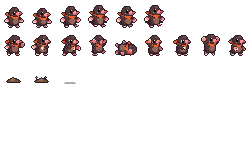
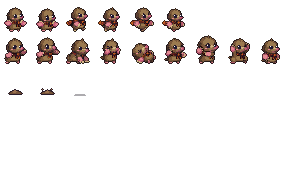
Naïl v5를 개발판에: 초상화 얼굴에서 다시 받은 시트·걷기 영상 네 칸, 칸 32(0308)
- nail_ai.build = v5(머리 0.85배 — 포포와 나란히, 걷기는 영상에서 뽑은 네 칸). 옛 시트는 build_v4
- 칸 28 → 32(art::NAIL_CELL·NAIL_FOOT): 치기 칸의 발톱·날리는 목도리가 가장자리에 닿았다
- 땅 단면 그림(dig.png 줄 0)의 털색을 v5 색표로
- 도구의 칸 크기(check_rebuild·make_images·achievement_icons·hub_ref), 상점 그림 도구는 띠 높이에서 칸을 읽는다
- 다른 캐릭터에 같은 기법을 입혀 본 결과와 남은 것은 docs/decisions/0308

Changed region(s): [[0.0, 0.0298, 0.9722, 0.3571], [0.1389, 0.4464, 0.1944, 0.506], [0.0278, 0.4464, 0.0833, 0.506]]

diff --git a/tools/art/nail_ai.py b/tools/art/nail_ai.py
@@ -1,4 +1,4 @@
-"""Naïl 스프라이트 시트(28×28 칸): 나노바나나 원본(tools/art/sources/ai/sprites/)을 게임 도트로 옮긴다(0206 → 0238).
+"""Naïl 스프라이트 시트(32×32 칸): 나노바나나 원본(tools/art/sources/ai/sprites/)을 게임 도트로 옮긴다(0206 → 0238 → 0308).
 
 실행: python3 tools/art/nail_ai.py [출력 경로]   (기본 assets/art/nail.png. 털빛 시트 nail_fur*.png는 0272에서 뺐다)
 
@@ -6,7 +6,9 @@
 설정(`SPEC`)과 시트 배치뿐이다. 왜 이 길인가(0203 → 0206 → 0238): 16칸 손 그림은 "두더지 같지 않다"(사장) → 실루엣 시안 1
 (`nail_s1_v2`, 몸 16px) → 사장 "처음부터 다시"(0238): 큰 그림 다섯 안에서 고른 1번(서서 삽 손을 벌린 몸 + 주황 목도리)을
 시트 둘(`nail_v3_a`·`nail_v3_b`)로 받아 키 약 22px로(모모 23·도토 25와 나란히). 0242: 머리를 키운 시험(`chibi`, 사장 "좋은데?") →
-그 비율로 처음부터 그린 v4 시트 둘(`nail_v4_a`·`nail_v4_b`, 2.5등신·큰 눈)을 받아 지금 쓴다(`SPEC`, 외곽선까지 키 약 21px — 아기라 이웃보다 작게). 원본 손발이 이미 분홍·크림이라 `Limbs`·`swing`은 없다.
+그 비율로 처음부터 그린 v4 시트 둘(`nail_v4_a`·`nail_v4_b`, 2.5등신·큰 눈, `SPEC` — 지금은 `build_v4`로만). 원본 손발이 이미 분홍·크림이라 `Limbs`·`swing`은 없다.
+0308: 초상화 얼굴에서 다시 그린 v5(`nail_v5_a`·`_b` + 걷기 영상 띠 `nail_v5_walk`)를 지금 쓴다(`build` = `build_v5`): 키 24px, 눈은 원본의
+반짝 자리를 재서 같은 도장으로, 외곽선은 곁의 털색으로 물들이고 안쪽 선을 원본에서 옮긴다. 머리는 `HEAD_V5`배(이웃과 나란히 보아 고른 값).
 
 칸 배치(게임 코드는 칸 크기 `art::NAIL_CELL`만 안다):
   줄 0: 서기 2, 걷기 4 / 줄 1: 치기 3, 맞음, 쓰러짐, 들기 3, 거두기 / 줄 2: 흙더미 2, 그림자(16칸 그림을 칸 아래 가운데에)
@@ -24,8 +26,8 @@ import nail as legacy  # noqa: E402  흙더미·그림자 16칸 그림을 같이
 from sprite_ai import Source, Spec, convert, magenta, seat, seat_on_fur, step_cycle  # noqa: E402
 
 SPRITES = HERE / "sources" / "ai" / "sprites"
-CELL = 28          # 키 약 24px(머리 키운 뒤, 0242) + 뻗은 발톱(0238: 18px는 모모 23·도토 25보다 작아 주인공이 가장 작았다)
-FOOT = 26          # 발바닥 줄(칸 위에서). 게임은 발을 몸 자리 + 6에 둔다(`art::nail_origin`).
+CELL = 32          # 키 24px + 뻗은 발톱·날리는 목도리(0308: v5의 치기 칸이 28칸 가장자리에 닿았다. 0238의 28칸은 v4까지)
+FOOT = 30          # 발바닥 줄(칸 위에서). 게임은 발을 몸 자리 + 6에 둔다(`art::nail_origin`).
 
 # 원본(0238, 사장 고름 1단계 1번 → 2단계 시트 둘, ✦ 지움). 칸 상자는 redo_concepts.components로 찾은 값.
 # 시트 A(3줄 × 4): 줄 1 서기·서기(숨)·맞음·쓰러짐, 줄 2·3 걷기(줄 2 첫 칸만 쓴다 — 네 칸이 거의 같고 앞발만 튀어서, 0241). 서기 두 칸은 벌린 발톱끼리 붙어 있어
@@ -551,7 +553,10 @@ def spec_v5(head=1.0):
         palette_ref=SPEC_V5.palette_ref, body_h=SPEC_V5.body_h, breathe=SPEC_V5.breathe)
 
 
-def build_v5(walk="step", lines=True, head=1.0):
+HEAD_V5 = 0.85      # 머리 배율(사장 2026-11-27 "너무 이등신 느낌 … 포포 정도면") — 머리 너비가 포포(15px)에 가깝다(받은 그대로 19 → 16px)
+
+
+def build_v5(walk="gif", lines=True, head=HEAD_V5):
     """v5 시트. `walk`: "step" = 걷기 첫 칸에서 발만 딛는 네 칸(0241, 지금까지의 방식), "sheet" = 받은 걷기 네 칸 그대로,
     "gif" = 걷기 영상에서 뽑은 네 칸. `head` = 머리 배율(`shrink_head`)."""
     spr = convert(spec_v5(head))
@@ -583,18 +588,8 @@ def build_v5(walk="step", lines=True, head=1.0):
     return rows
 
 
-def build():
-    spr = convert(SPEC)
-    sat = lambda k: touch(seat_on_fur(spr[k], spr["idle_a"], CELL, FOOT), k)
-    idle = touch(seat(spr["idle_a"], CELL, FOOT), "idle_a")
-    rows = [
-        [idle, touch(seat(spr["idle_b"], CELL, FOOT), "idle_b")]
-        # v4도 걷기 넷을 그려 왔지만 넷째 칸만 몸이 좁고 키가 커 걸음마다 튀었다 → 첫 칸에서 발만 딛게(0241, 다른 캐릭터와 같이).
-        + step_cycle(sat("walk_1"), FOOT - 1),
-        # 동작 칸은 몸통 털의 가운데를 서기 칸에 맞춘다(발톱을 뻗어도 몸이 옆으로 뛰지 않게).
-        [sat(k) for k in ("attack0", "attack1", "attack2", "hurt", "dead", "windup0", "windup1", "windup2", "settle")],
-        [small(legacy.MOUND_A), small(legacy.MOUND_B), small(legacy.SHADOW)],
-    ]
+def sheet_of(rows):
+    """줄 0~2(그림)와 줄 3~5(흰 실루엣)를 한 장으로."""
     sheet = np.zeros((CELL * 6, CELL * 9, 4), np.uint8)
     for r, row in enumerate(rows):
         for c, cell in enumerate(row):
@@ -607,6 +602,27 @@ def build():
             sil[~on] = 0
             sheet[(r + 3) * CELL:(r + 4) * CELL, c * CELL:(c + 1) * CELL] = sil
     return sheet
+
+
+def build():
+    """지금 게임 시트: v5(걷기는 영상 네 칸, 머리 `HEAD_V5`)."""
+    return sheet_of(build_v5())
+
+
+def build_v4():
+    """옛 v4 시트(견줄 때만)."""
+    spr = convert(SPEC)
+    sat = lambda k: touch(seat_on_fur(spr[k], spr["idle_a"], CELL, FOOT), k)
+    idle = touch(seat(spr["idle_a"], CELL, FOOT), "idle_a")
+    rows = [
+        [idle, touch(seat(spr["idle_b"], CELL, FOOT), "idle_b")]
+        # v4도 걷기 넷을 그려 왔지만 넷째 칸만 몸이 좁고 키가 커 걸음마다 튀었다 → 첫 칸에서 발만 딛게(0241, 다른 캐릭터와 같이).
+        + step_cycle(sat("walk_1"), FOOT - 1),
+        # 동작 칸은 몸통 털의 가운데를 서기 칸에 맞춘다(발톱을 뻗어도 몸이 옆으로 뛰지 않게).
+        [sat(k) for k in ("attack0", "attack1", "attack2", "hurt", "dead", "windup0", "windup1", "windup2", "settle")],
+        [small(legacy.MOUND_A), small(legacy.MOUND_B), small(legacy.SHADOW)],
+    ]
+    return sheet_of(rows)
 
 
 if __name__ == "__main__":

diff --git a/tools/art/hub_ref.py b/tools/art/hub_ref.py
@@ -215,7 +215,7 @@ def board(items):
     w = 4 + 24 + 8 + len(items) * (CELL + 6) + 4
     out = Image.new("RGBA", (w * Z, (CELL + 8) * Z), (255, 0, 255, 255))
     # Naïl은 그림이 있는 자리만 잘라 발을 물건의 발 줄에 맞춘다(칸 크기가 바뀌어도 어긋나지 않게 — 지금 28칸).
-    nail = Image.open(HERE.parents[1] / "assets" / "art" / "nail.png").convert("RGBA").crop((0, 0, 28, 28))
+    nail = Image.open(HERE.parents[1] / "assets" / "art" / "nail.png").convert("RGBA").crop((0, 0, 32, 32))
     nail = nail.crop(nail.getbbox())
     out.alpha_composite(
         nail.resize((nail.width * Z, nail.height * Z), Image.NEAREST),
@@ -241,7 +241,7 @@ def style_board():
         im = Image.open(art / name).convert("RGBA").crop((col * size, 0, (col + 1) * size, size))
         return im.crop(im.getbbox())
 
-    cells = [cell("nail.png", 28, 0), cell("popo.png", 32, 0), cell("susu.png", 32, 0)]
+    cells = [cell("nail.png", 32, 0), cell("popo.png", 32, 0), cell("susu.png", 32, 0)]
     cells += [cell("props.png", 24, c) for c in (0, 1, 2, 4)]
     # 화덕 돌 고리(칸 1)는 바닥에 누운 것의 각도 기준: 물웅덩이·샘을 받을 때 "이 고리와 같은 각도로"라고 쓴다(2026-11-27 —
     # 각도 기준 없이 받은 샘은 돌 테두리 옆면이 보여 우물처럼 서 있었다).

diff --git a/tools/store/msstore_media.py b/tools/store/msstore_media.py
@@ -37,7 +37,8 @@ def main() -> None:
     wm = wordmark()
     title = Image.open(ILL / "title.png").convert("RGBA")  # 640×360
     tree = Image.open(ILL / "great_tree.png").convert("RGBA")
-    nail = Image.open(SHOTS / "sp_nail.png").convert("RGBA").crop((0, 0, 28, 28))
+    nail = Image.open(SHOTS / "sp_nail.png").convert("RGBA")
+    nail = nail.crop((0, 0, nail.height, nail.height))   # 걷는 띠의 첫 칸(칸 = 띠 높이)
 
     # 상자 1:1: 타이틀 왼쪽 360×360(굴 속에 잠든 나일) ×6, 제목은 위 2/3 안(가운데 위).
     box = up(title.crop((0, 0, 360, 360)), 6)
@@ -49,7 +50,7 @@ def main() -> None:
     for (w, h, k) in [(240, 360, 6), (288, 512, 5)]:
         x0 = (tree.width - w) // 2
         post = up(tree.crop((x0, 0, x0 + w, h)), k)
-        post.alpha_composite(up(nail, 9), (200, post.height - 300 - 28 * 9))
+        post.alpha_composite(up(nail, 9), (200, post.height - 300 - nail.height * 9))
         place(post, fit(wm, 1300, 420), 720, 360)
         post.convert("RGB").save(OUT / f"poster-{w * k}x{h * k}.png", optimize=True)
 

diff --git a/tools/store/epic_media.py b/tools/store/epic_media.py
@@ -97,8 +97,9 @@ def main() -> None:
     x0 = (tree.width - 300) // 2
     port = up(tree.crop((x0, 0, x0 + 300, 400)), 4)
     # 주인공: 걷는 띠의 첫 칸(28칸) ×8을 뿌리 앞에
-    nail = Image.open(SHOTS / "sp_nail.png").convert("RGBA").crop((0, 0, 28, 28))
-    port.alpha_composite(up(nail, 8), (330 - 112, 1180 - 28 * 8))  # 왼쪽 풀밭 위(뿌리 위는 어두워 묻힌다)
+    nail = Image.open(SHOTS / "sp_nail.png").convert("RGBA")
+    nail = nail.crop((0, 0, nail.height, nail.height))   # 걷는 띠의 첫 칸(칸 = 띠 높이)
+    port.alpha_composite(up(nail, 8), (330 - nail.height * 4, 1180 - nail.height * 8))  # 왼쪽 풀밭 위(뿌리 위는 어두워 묻힌다)
     place(port, up(wm, 7), 600, 300)
     port.convert("RGB").save(OUT / "offer-portrait-1200x1600.png", optimize=True)
 

diff --git a/src/art.rs b/src/art.rs
@@ -262,10 +262,10 @@ pub const PORTRAIT: f32 = 88.0;
 pub const PORTRAIT_COLS: u32 = 12;
 
 pub const CELL: f32 = 16.0;
-/// Naïl 시트(nail.png)의 칸: 28×28(몸 키 약 22px + 벌린 발톱, 0238 — 0206의 24칸·몸 16은 모모·도토보다 작았다),
+/// Naïl 시트(nail.png)의 칸: 32×32(몸 키 24px + 뻗은 발톱·날리는 목도리, 0308 — 0238의 28칸은 v5의 치기 칸이 가장자리에 닿았다),
 /// 발바닥 줄 `NAIL_FOOT`(칸 위에서). 다른 시트는 `CELL`.
-pub const NAIL_CELL: f32 = 28.0;
-pub const NAIL_FOOT: f32 = 26.0;
+pub const NAIL_CELL: f32 = 32.0;
+pub const NAIL_FOOT: f32 = 30.0;
 
 /// critters.png에서 실루엣 줄까지의 거리(그림 줄 수).
 pub const CRITTER_ROWS: u32 = 22;

diff --git a/tools/steam/achievement_icons.py b/tools/steam/achievement_icons.py
@@ -51,8 +51,8 @@ ICONS = [
     ('ACH_DOTO_DEEPEST', 'story', ('portrait', 32, 12, 12)),
     ('ACH_KILLS', 'fight', ('portrait', 3, 12, 12)),
     ('ACH_BURST_KILLS', 'fight', ('sprite', 'dig.png', 32, 6, 0, 2)),
-    ('ACH_PARRIES', 'fight', ('sprite', 'nail.png', 28, 2, 0, 2)),
-    ('ACH_HEAVY_HITS', 'fight', ('sprite', 'nail.png', 28, 7, 1, 2)),
+    ('ACH_PARRIES', 'fight', ('sprite', 'nail.png', 32, 2, 0, 2)),
+    ('ACH_HEAVY_HITS', 'fight', ('sprite', 'nail.png', 32, 7, 1, 2)),
     ('ACH_FINISHERS', 'fight', ('portrait', 9, 12, 12)),
     ('ACH_MOMO_BOWLING', 'fight', ('sprite', 'momo.png', 32, 5, 0, 2)),
     ('ACH_CHESTS', 'explore', ('sprite', 'props.png', 24, 5, 0, 2)),

diff --git a/tools/art/dig.py b/tools/art/dig.py
@@ -22,7 +22,8 @@ from PIL import Image
 
 S = 32
 NAIL = {
-    'o': (43, 29, 42), 'd': (92, 62, 52), 'b': (128, 92, 74), 'h': (166, 128, 102), 'l': (206, 172, 142),
+    # 털 넷은 게임 스프라이트(v5, 0308)의 색표에서: 옛 값은 붉은 기가 돌아 새 Naïl 옆에서 다른 동물 같았다.
+    'o': (43, 29, 42), 'd': (88, 63, 41), 'b': (123, 88, 58), 'h': (155, 122, 79), 'l': (210, 182, 132),
     'p': (242, 152, 164), 'q': (200, 104, 124), 'c': (248, 238, 216), 'C': (206, 190, 164),
     'e': (26, 16, 32), 'w': (255, 255, 255), 'r': (236, 132, 132),
     # 주황 목도리(0206 새 옷: 게임 스프라이트와 같은 색)

diff --git a/tools/site/make_images.py b/tools/site/make_images.py
@@ -72,7 +72,7 @@ def shifted(cell: Image.Image, dx: int) -> Image.Image:
     return out
 
 
-CELLS = {"nail.png": 28, "momo.png": 32, "doto.png": 40, "popo.png": 32, "bat.png": 32, "susu.png": 32,
+CELLS = {"nail.png": 32, "momo.png": 32, "doto.png": 40, "popo.png": 32, "bat.png": 32, "susu.png": 32,
          "chief.png": 40, "kongi.png": 32, "clover.png": 40}
 
 

diff --git a/tools/art/check_rebuild.py b/tools/art/check_rebuild.py
@@ -20,7 +20,7 @@ sys.path.insert(0, str(HERE))
 
 # (모듈, build 인자, 시트 파일, 칸 크기). 한 원본에서 여러 장이면 줄마다.
 SINGLE = [
-    ("nail_ai", None, "nail.png", 28),
+    ("nail_ai", None, "nail.png", 32),
     ("momo_ai", None, "momo.png", 32),
     ("doto_ai", None, "doto.png", 40),
     ("kongi_ai", None, "kongi.png", 32),

diff --git a/docs/decisions/0308-nail-v5-sprite.md b/docs/decisions/0308-nail-v5-sprite.md
@@ -1,0 +1,52 @@
+# 0308. Naïl v5 — 초상화 얼굴에서 다시 그린 주인공(32칸)
+
+- 날짜: 2026-11-27
+- 상태: 들어감(`release/v1.1`) — 사장 확인 전(머리 배율·외곽선)
+- 바탕: 0238(처음부터 다시) → 0242(머리 키우기·v4). 그림 규칙 0203, 변환기 0206, 걷기 넷 0241.
+- 사장: "나일이도 … 캐릭터 새로 받아볼까? 아직 예쁘지 않거든 주인공인데도" → 큰 그림 여섯 안에서 "6, 4" →
+  "아기 느낌은 단순히 크기가 문제가 아니라 귀여움이 중요한 거야" → 시트 A·B + 걷기 GIF → "외곽선이 좀 더 예술적으로 들어가야 잘 보일 듯"
+  → "눈 감는 게 좀 어색하다" → "머리 크기를 아주 약간만 … 너무 이등신 느낌" → "포포 정도면 좋을 것 같은데?" →
+  "애니메이션은 gif 버전이 더 좋으면 그 방법으로 가자".
+
+## 무엇을 바꿨나
+| 것 | 전(v4) | 지금(v5) |
+|---|---|---|
+| 원본 | `nail_v4_a`·`_b` | `nail_v5_a`·`_b`(초상화의 얼굴: 큰 머리·큰 눈·볼 홍조·체크 목도리) + 걷기 영상 띠 `nail_v5_walk` |
+| 칸 | 28(발바닥 줄 26) | **32**(발바닥 줄 30) — 치기 칸의 발톱·날리는 목도리가 28칸 가장자리에 닿았다 |
+| 키 | 외곽선까지 약 21px | 24px(작게 그려 아기처럼 보이게 하지 않는다 — 귀여움은 비율과 얼굴로) |
+| 눈 | 검은 점 자리에 도장(`auto_eye`) | 원본의 눈 반짝 자리를 재서 같은 눈(3×3 + 반짝)·볼 홍조를 찍는다(`stamp_face`). 맞음 `>`·쓰러짐 `x`는 감은 눈(`stamp_shut`) |
+| 외곽선 | 한 색(`sprite_ai.OUTLINE`) | 곁의 털색을 어둡게 한 색, 빛 쪽(위·왼쪽)은 조금 밝게(`tinted_outline`) |
+| 안쪽 선 | 줄이면서 사라짐 | 원본의 한 블록 굵기 선을 그 자리 색의 그늘로 옮긴다(`ink_lines`) |
+| 머리 | 받은 그대로 | `HEAD_V5` 0.85배(`shrink_head` — 줄이기 전 큰 그림에서 목을 기준으로) |
+| 걷기 | 첫 칸에서 발만 딛는 네 칸(`step_cycle`, 0241) | **영상에서 뽑은 네 칸**(`build_v5(walk="gif")`) |
+
+## 왜
+- **머리 0.85**: 받은 그대로는 머리 너비 약 19px에 몸 12px — 이웃 옆에서 혼자 이등신이었다. 포포는 머리 너비 약 15px.
+  0.85면 약 16px(0.80은 15~16px로 포포와 거의 같지만 사장의 첫 말이 "아주 약간만"이라 그 사이를 골랐다). 값 하나라 바꾸기 쉽다.
+  머리가 줄면 변환기가 키 24px를 다시 맞추니 몸이 그만큼 커진다.
+- **걷기는 영상**: 따로 그린 네 칸은 칸마다 몸 너비·얼굴이 조금씩 달라 걸음마다 튄다(0241이 `step_cycle`로 돌아간 까닭).
+  영상은 같은 몸이 이어져 움직여 네 칸의 얼굴·몸이 같고, 발만 딛는 `step_cycle`보다 몸이 실제로 움직인다(팔 흔들기·목도리 끝).
+  치른 값: 목도리 끝이 걷는 동안에만 뒤로 날린다(서 있을 때는 늘어져 있다 — 원본이 그렇다).
+- **외곽선·안쪽 선**: agent-sprite-forge(MIT)의 문서·코드를 읽고 옮긴 두 가지(실행은 하지 않았다 — 세션 권한이 막았다).
+  자세한 것은 `docs/art/redo-nail-kongi-tree-prompts.md` "받은 것과 변환".
+
+## 같이 고친 것
+- `art::NAIL_CELL` 32·`NAIL_FOOT` 30(그리는 쪽은 상수만 본다 — 파고들기 가라앉기·흰 실루엣 줄 포함).
+- `dig.png` 줄 0(땅 단면의 파 내려가는 Naïl)의 털 네 색을 v5 색표로(`tools/art/dig.py`) — 옛 값은 붉은 기가 돌아 다른 동물 같았다.
+- 도구의 칸 크기: `check_rebuild.py`·`tools/site/make_images.py`·`tools/steam/achievement_icons.py`·`hub_ref.py`,
+  상점 그림 도구(`tools/store/*_media.py`)는 걷는 띠의 높이에서 칸을 읽는다.
+- `nail_ai.build_v4()`로 옛 시트를 다시 만들 수 있다(견줄 때).
+
+## 다른 캐릭터에도 되나(사장 "다른 캐릭터들도 … 다 예뻐질지 확인해 보자")
+같은 두 기법(외곽선 물들이기·안쪽 선)을 지금 시트에 입혀 봤다 — **거의 달라지지 않는다**.
+- 모모·도토·포포·콩이·보리는 이미 32~40칸이라 원본의 선이 살아 있다. 외곽선을 물들이면 조금 부드러워질 뿐이다
+  (풀밭 바탕의 견줌판에서 본 것 — 어두운 굴 바닥에서는 견주지 않았다. 물들인 외곽선은 한 색보다 옅으니 적·잡몹에 쓰려면 그것부터 본다).
+- Naïl이 좋아진 까닭은 기법보다 **원본을 다시 받은 것**(초상화 얼굴)과 **눈을 줄이지 않고 찍은 것**이다.
+- 그래서 다른 캐릭터를 예쁘게 하려면 후처리가 아니라 원본을 다시 받아야 한다. 그때 쓸 것: 표정이 작은 칸에서 뭉개지는 캐릭터는 눈 도장,
+  걷기는 영상에서 뽑기. 누구부터 할지는 사장이 정한다.
+
+## 남은 것
+- 사장 확인: 머리 배율(0.85), 외곽선(물들이기 그대로 / 한 색으로).
+- 파고들기·솟구치기 전용 칸은 아직 없다(시트 B의 두 칸은 쓰지 않았다 — 지금처럼 서 있는 그림이 가라앉는다).
+- 공식 페이지의 걷는 스프라이트·스크린숏·싸움 클립, 상점 그림, Steam 업적 아이콘 둘은 옛 Naïl 그대로다 — v1.1을 낼 때 다시 찍는다.
+- "한 블록 = 게임의 한 점"으로 처음부터 받기(자 그림 곁에 그리게 하기)는 해 보지 않았다.

diff --git a/docs/phase-1-combat-prototype.md b/docs/phase-1-combat-prototype.md
@@ -172,6 +172,7 @@
 - [ ] 사람: 개발판에서 텃밭 결(값·자라는 속도·칸 자리·화단 꽃·바탕 들꽃 그림 결) 확인 → v1.1 닫기·배포 시점
 - [x] 리팩터링 0307 1단계: R41(마을 상태 = `village::State::of`, 재주를 깨우거나 발자국 반딧불을 받은 뒤 우물 반딧불이 바로 따라옴)·R43(저장은 `App::write_profile` 한 곳 — 꾸미기·큰 나무·발자국 보상에서도 그 자리에서 업적)
 - [x] 리팩터링 0307 2단계: 화면 기준선이 같은 그림을 내게(가짜 시계 `pauseAt`·확인용 줄 난수 고정), R45(`draw_sorted` 단계)·R44(이웃의 몸 하나)·R42(마을 창 = 줄 표 하나 + `VillageUi` + 한마디의 기분) — 기준선 66장으로 견줌. 겉으로 바뀐 것은 텃밭에서 심거나 거둔 뒤 포포가 웃는 것 하나
+- [x] Naïl v5(0308, 사장 2026-11-27): 초상화 얼굴에서 다시 받은 시트 둘 + 걷기 영상 네 칸, 칸 28 → 32, 눈 도장·감은 눈·물들인 외곽선·안쪽 선, 머리 0.85배(포포와 나란히), 땅 단면 그림의 털색 맞춤. **사장 확인 전**(머리 배율·외곽선). 공식 페이지·상점 그림은 v1.1 낼 때 다시 찍는다
 - [ ] 리팩터링 0307 3단계(R46 `world.rs` 나누기): PR #30이 Merge된 뒤, 동작을 안 바꾸는 옮기기만 작은 걸음으로(사장 2026-11-27 "합치고 하자, 임팩트가 적은 방향으로"). R47(`App` 상태 묶음)은 미룸
 - [x] 판정 1차 반영(사장 2026-11-27, 설문 페이지 — 0307 "판정 1차"): 우물 반딧불이 보이게·돌 우물은 길을 막는다·갈대 피리 소리 줄이기·등불과 텃밭 탭의 설명 자리·오른쪽 위 글자·포포 초상화 테두리·확인용 줄 이름
 - [ ] 사람: 판정 2차(설문 페이지) — 고친 것 확인 여섯, 정할 것 다섯(그림 바꾸기·등불의 뜻·흔적 거리·물웅덩이·초상화 테두리). 그림을 새로 받는다면 `docs/art/hub-sprite-prompts.md` 시트 E1~E4(이웃 등불·샘 그릇·갈대 피리부터)
